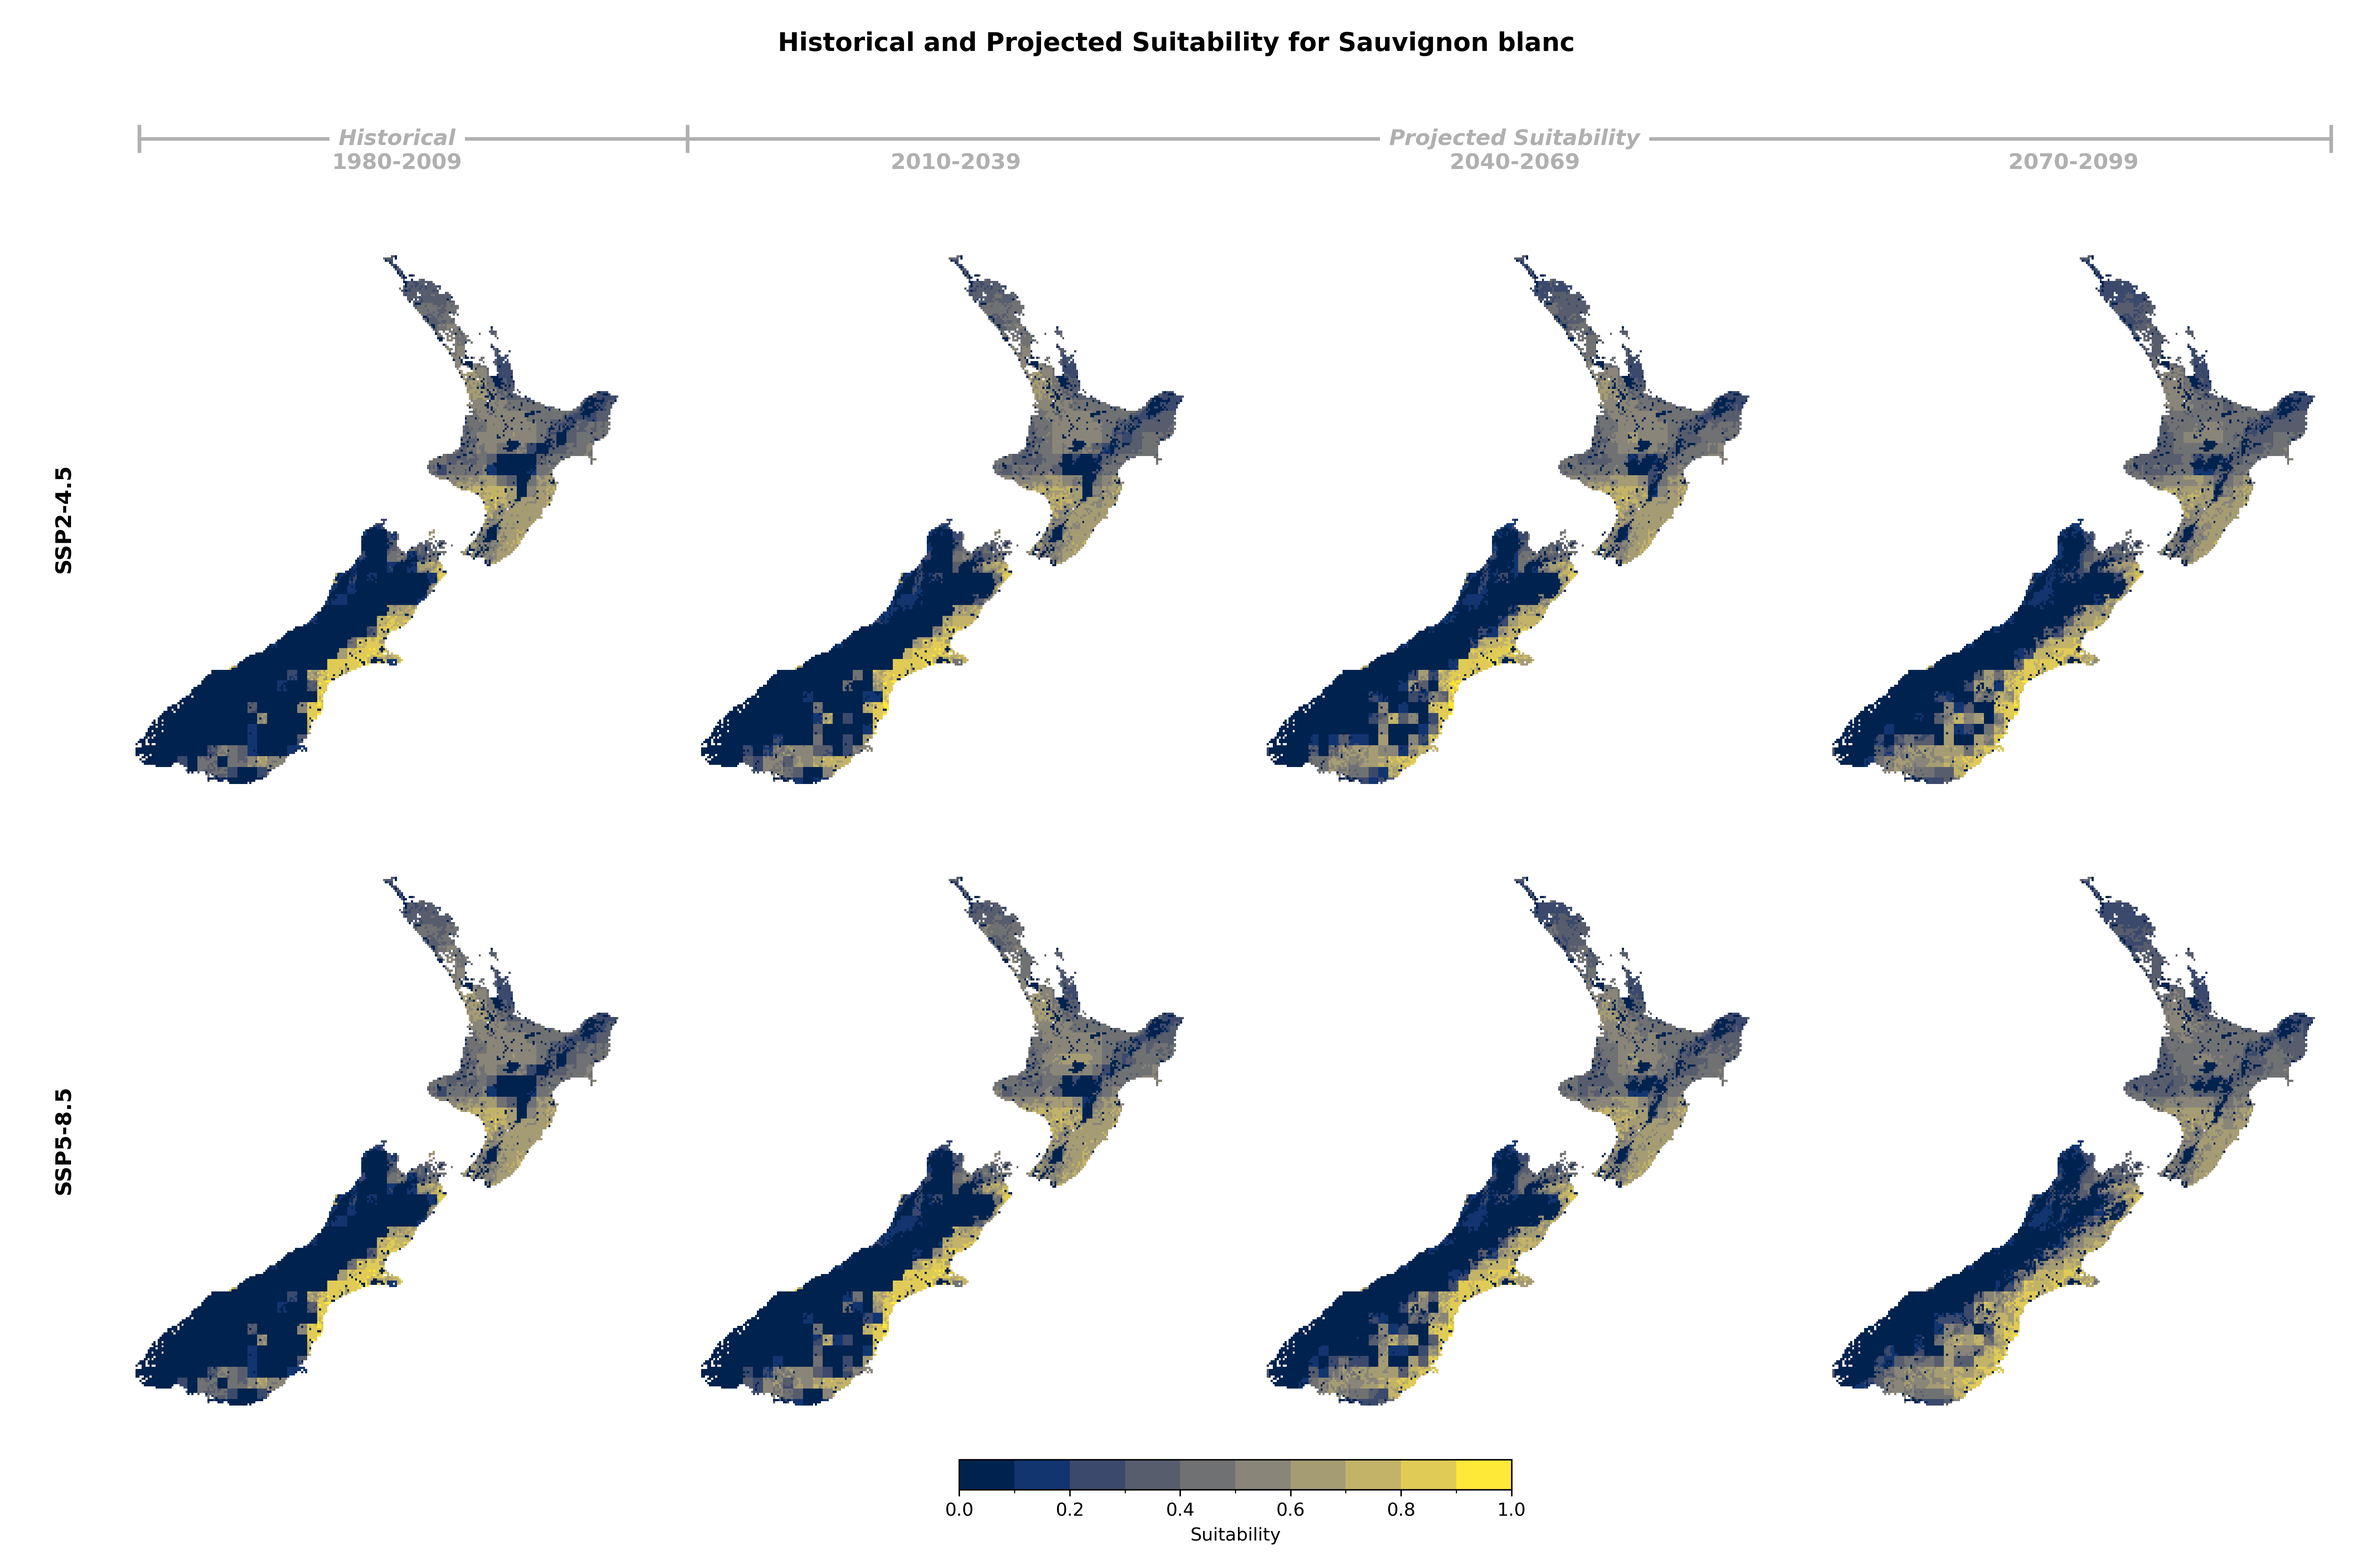
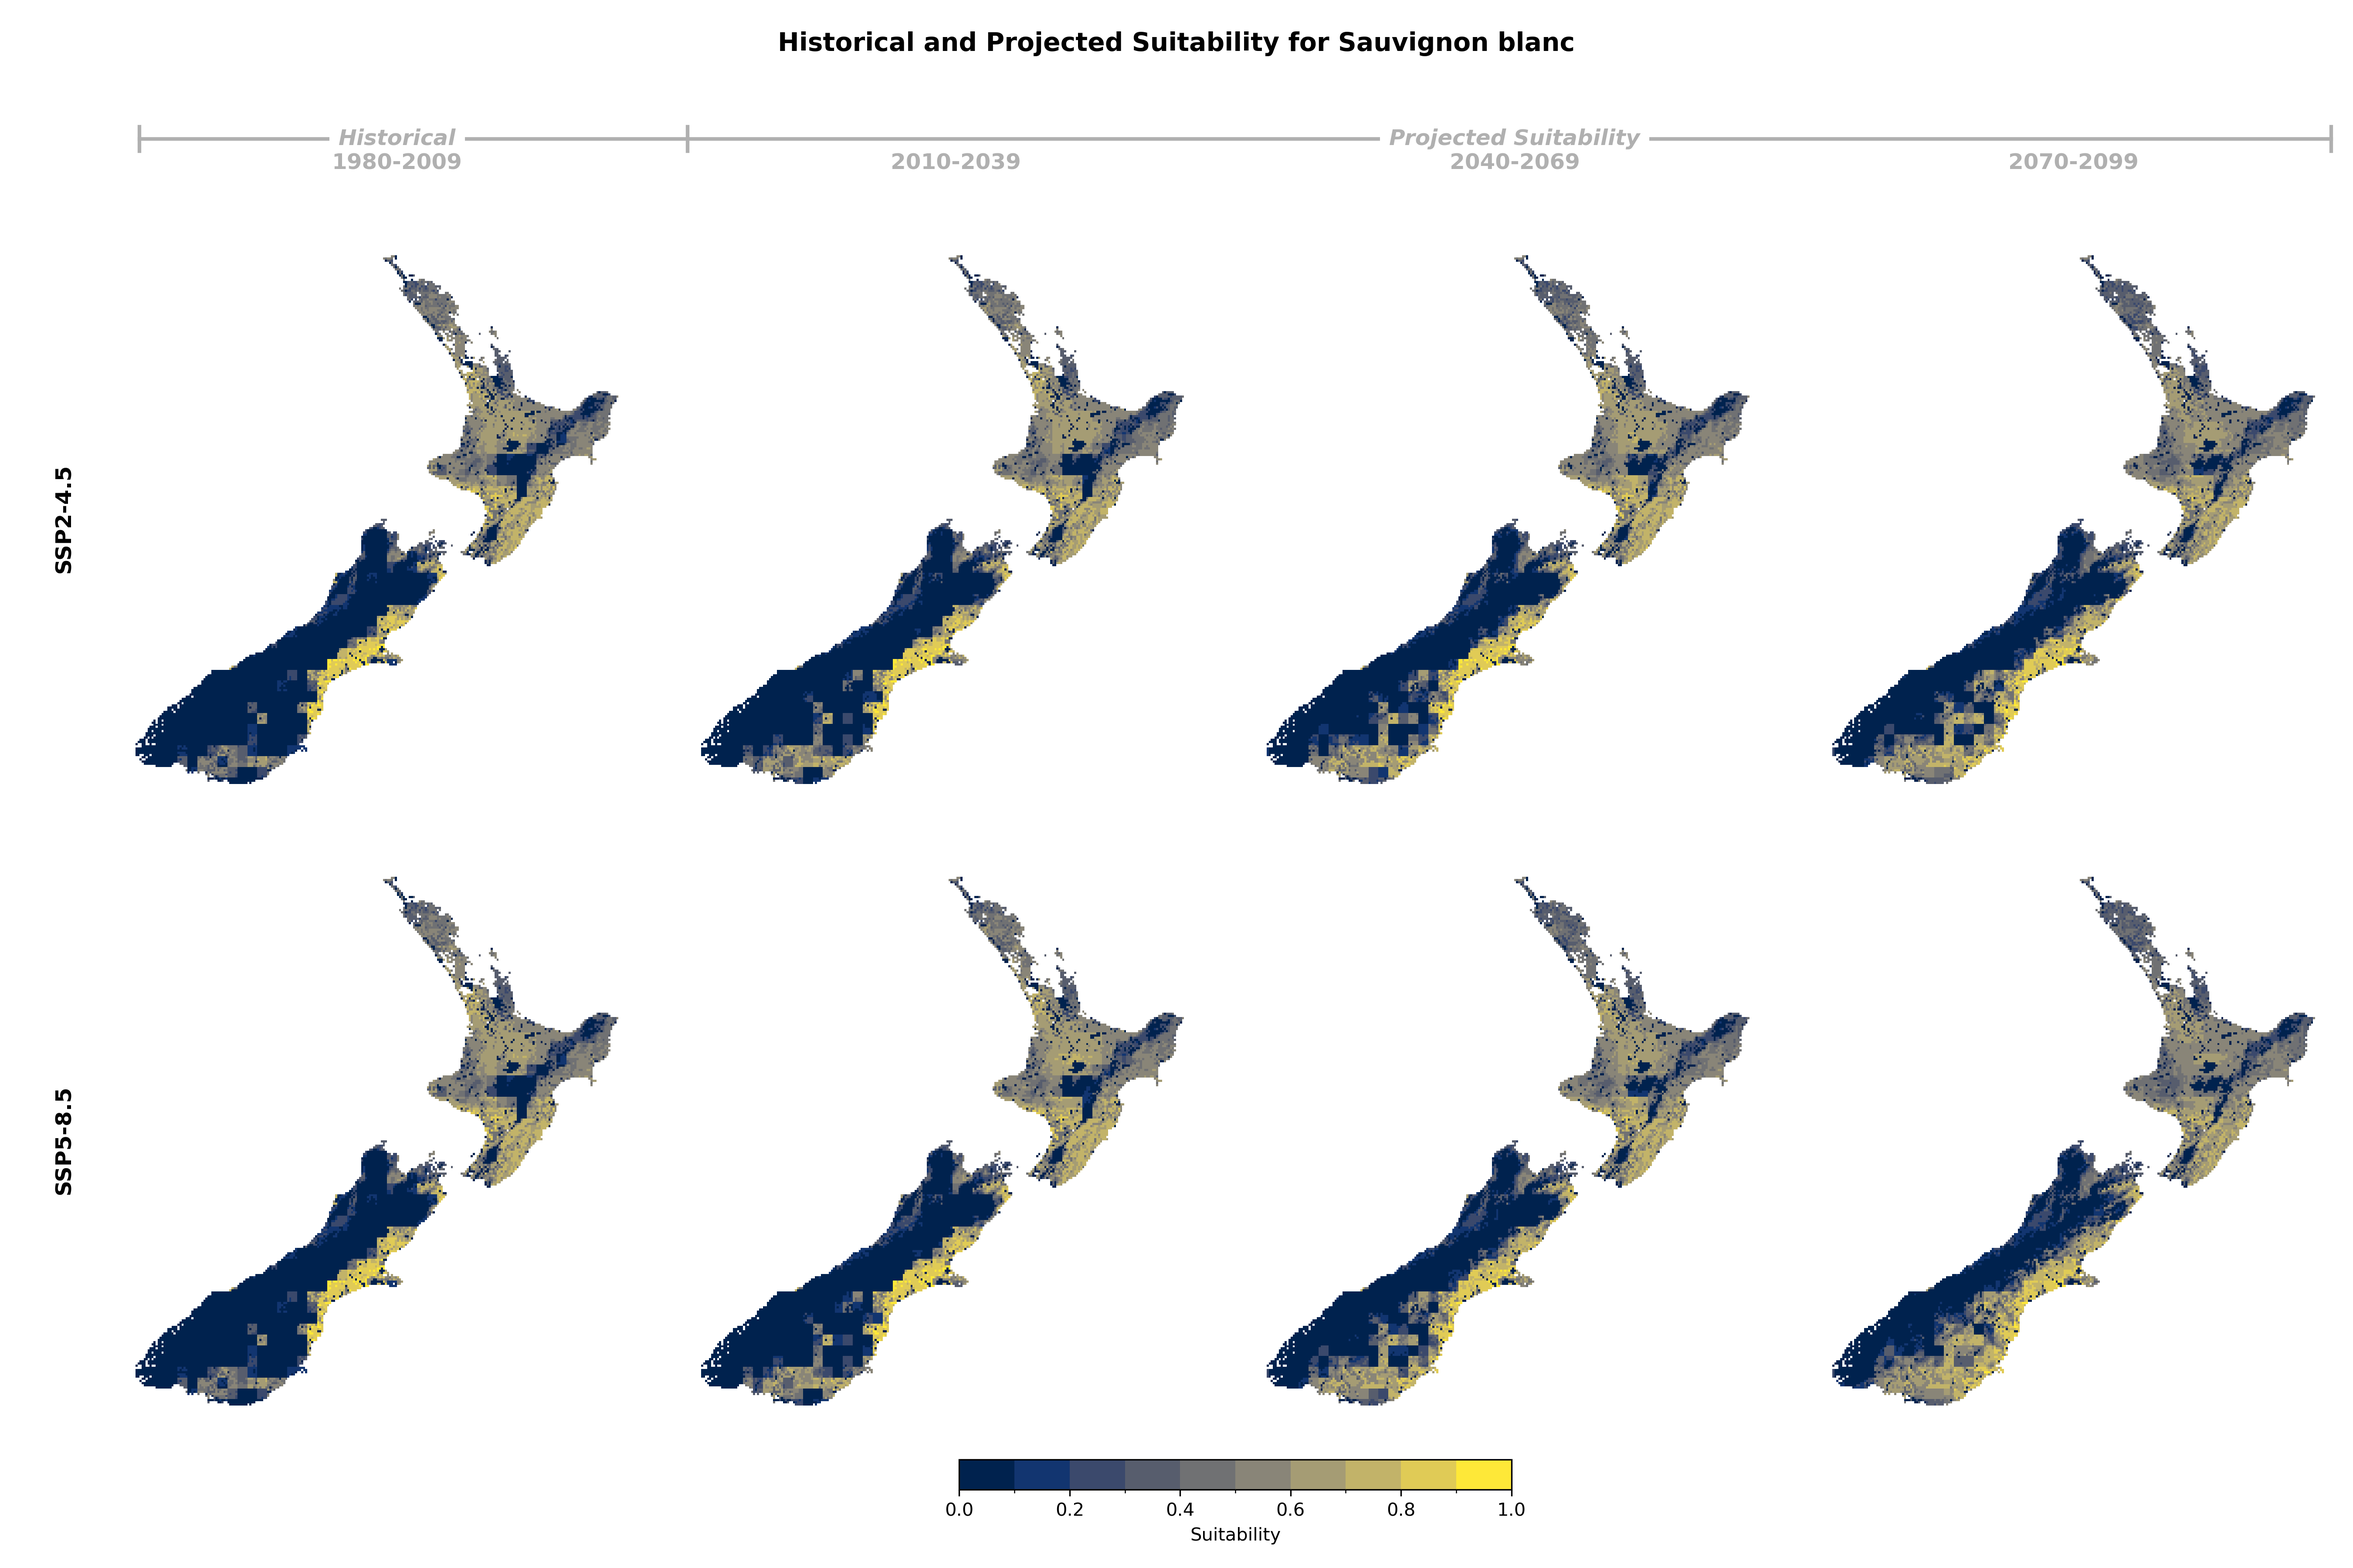
Add Sauvignon blanc 1km suitability

diff --git a/docs/landuses/sauvignonblanc.md b/docs/landuses/sauvignonblanc.md
@@ -8,11 +8,11 @@ title: Sauvignon blanc
 
 ### Suitability Values
 
-![](../_static/summary_figs/sauvignonblanc_suitability_SSP245-SSP585_5km_v1.0.png)
+![](../_static/summary_figs/sauvignonblanc_suitability_SSP245-SSP585_1km_v1.0.png)
 
 ### Suitability Changes
 
-![](../_static/summary_figs/sauvignonblanc_suitability_change_SSP245-SSP585_5km_v1.0.png)
+![](../_static/summary_figs/sauvignonblanc_suitability_change_SSP245-SSP585_1km_v1.0.png)
 
 :::
 
